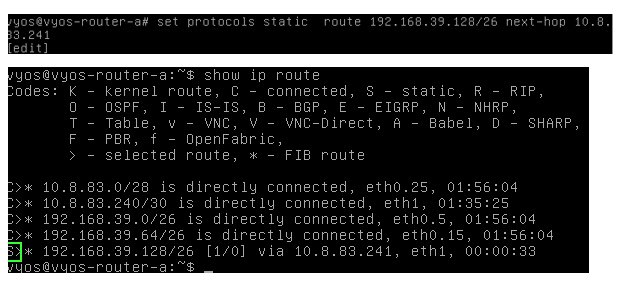
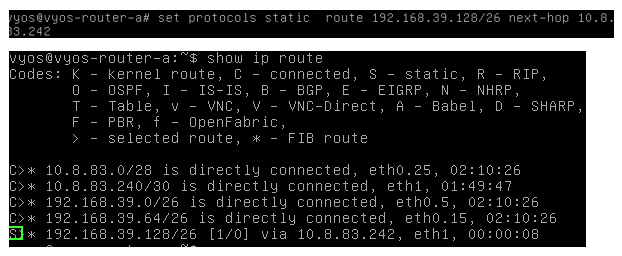
E05 Device Config

Changed region(s): [[0.0, 0.0312, 1.0, 0.9688], [0.0916, 0.4688, 0.1222, 0.5]]

diff --git a/documentation/E05.md b/documentation/E05.md
@@ -121,12 +121,14 @@ Testing connections by pinging Vyos Router B on .129 from Lubuntu3 on .130:
 ## Symmetric routing between Router A and B.
 
 Starting by adding a route from Vyos Router B to the subnet 192.168.39.64/26 - where Lubuntu2 is a part of the subnet. 
-Which, from what I understand, tells the Router B if it wants to send something to that subnet it needs to go by its interface eth1.
+Which, from what I understand, tells the Router B if it wants to send something to that subnet it needs to go by Router As interface eth1.
 
 ![](/documentation/E05/StaticRouteRouterBLubuntu2.png)
 
 Second I also want to add a similar route the opposite way, where I guess the term "symmetric" comes from. 
 
-Setting up a route from Vyos Router A to the subnet 192.168.39.128/26, the new subnet where Lubuntu3 is located., telling it to send traffic in that direction through its interface eth1.
+Setting up a route from Vyos Router A to the subnet 192.168.39.128/26, the new subnet where Lubuntu3 is located., telling it to send traffic in that direction through Router Bs interface eth1.
 
 ![](/documentation/E05/StaticRouteRouterALubuntu3.png)
+
+
